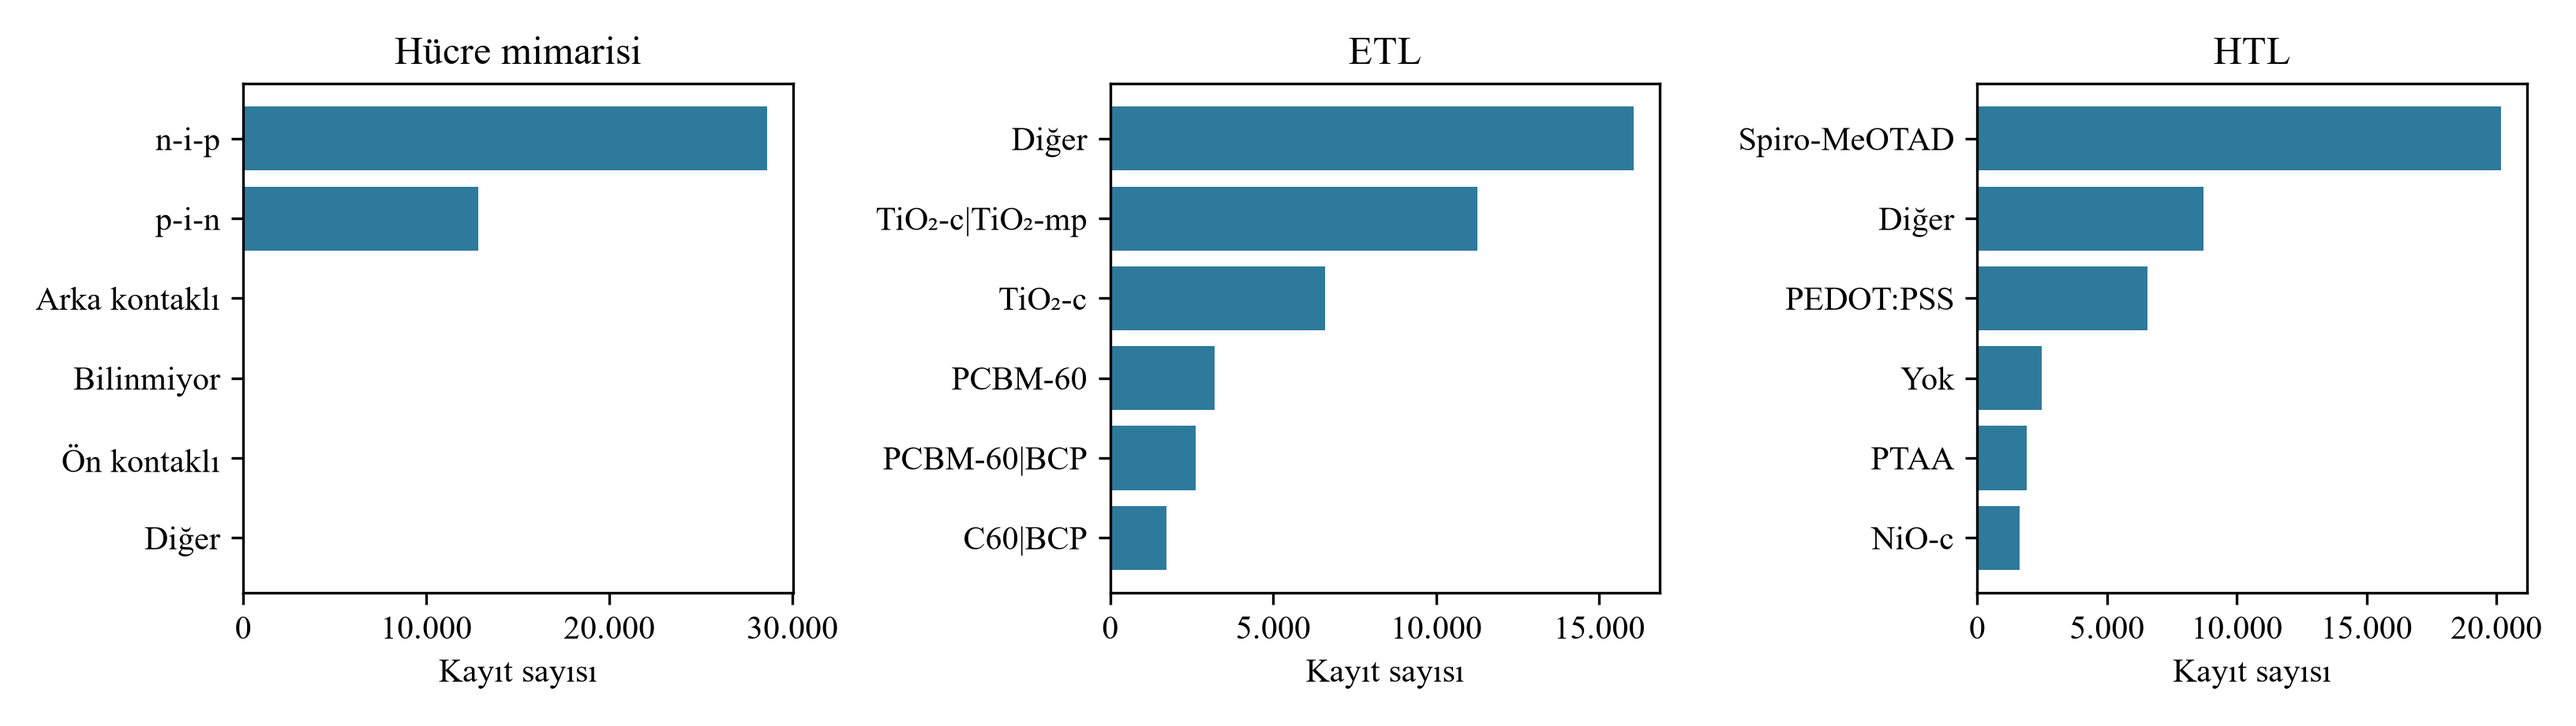
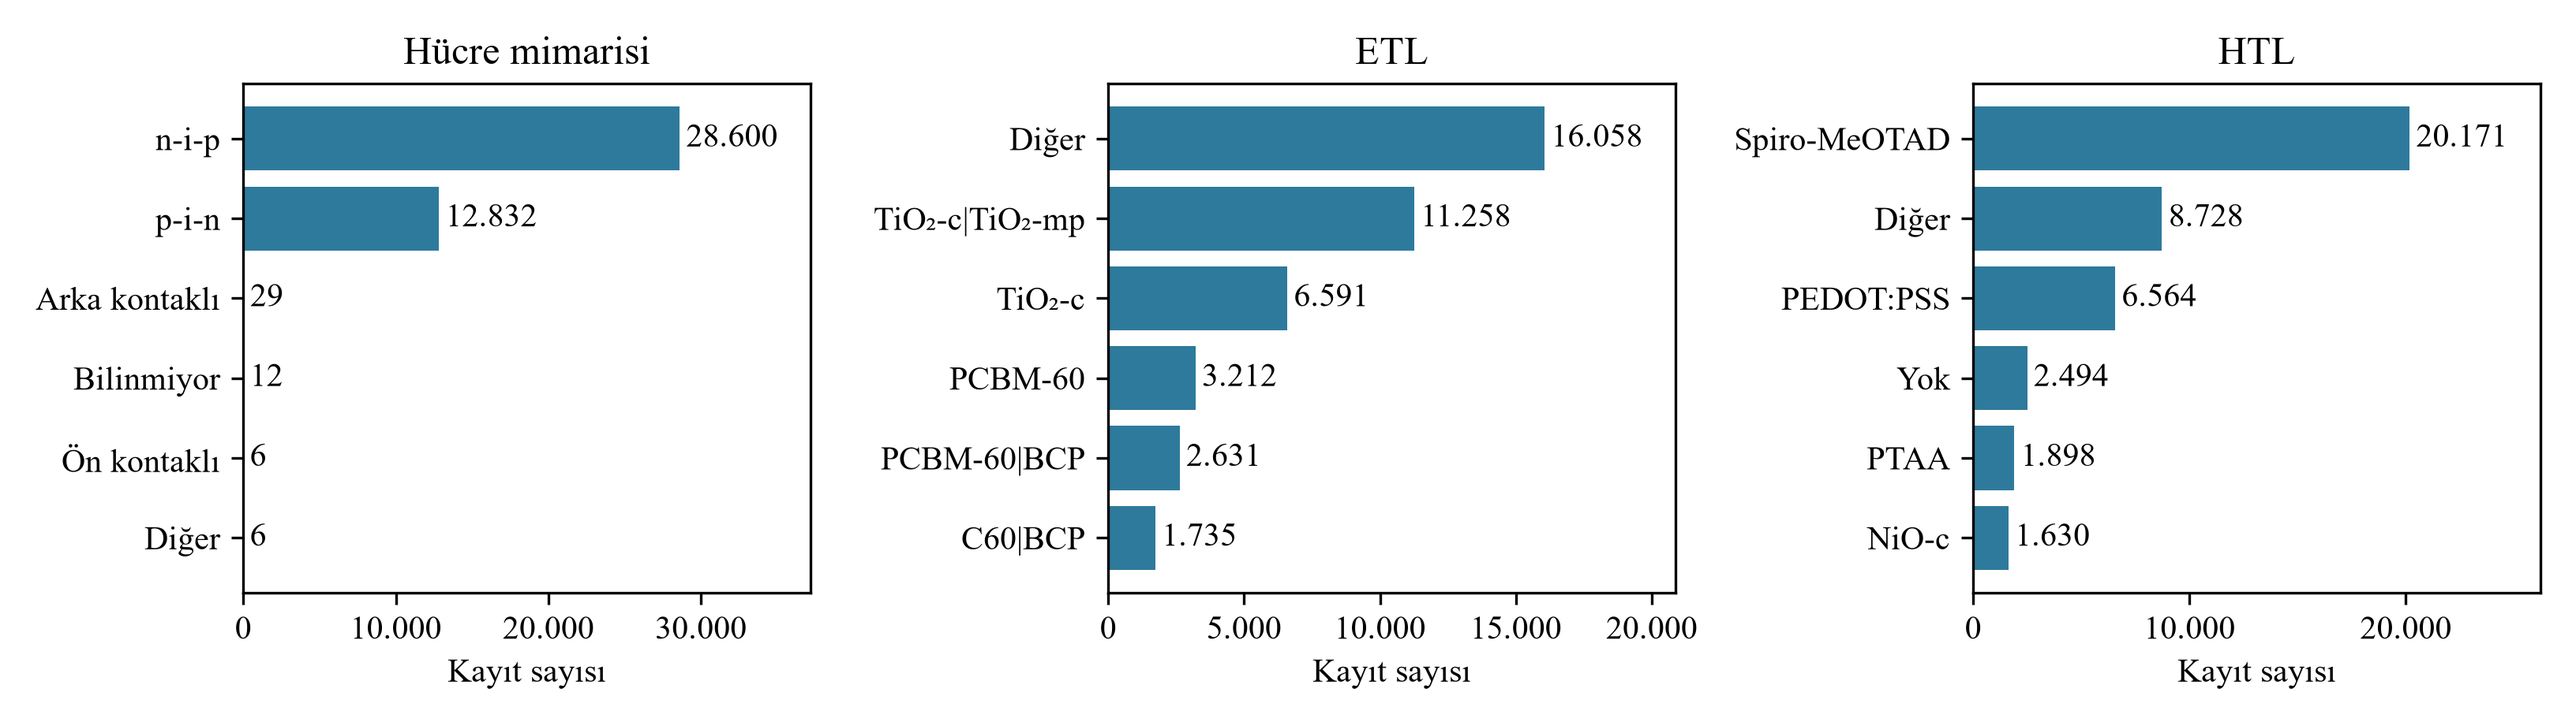
tez v126 sekilleri: 4.13 gosterge ve eksen, 4.1/4.12 eksen etiketi, 4.4 sayi etiketleri, 4.10 thesis_figures icinde, deney A/B/C ozet sekli

diff --git a/scripts/thesis_figures.py b/scripts/thesis_figures.py
@@ -1,9 +1,14 @@
 """Tez sekillerinin repo icinden yeniden uretimi (ML yok, yalnizca gorsellestirme).
 
-Tezdeki 13 sekilden dordu zaten hat betiklerince uretilir (4.8/4.9 SHAP -> scripts/05,
-4.10 kazanc egrisi -> scripts/07, 4.11 sacilim -> scripts/03). Bu betik geri kalan
-VERI sekillerinin esdegerlerini uretir; Sekil 3.1 (mimari semasi) veri sekli degildir.
-Sekil 3.1 ile 4.8/4.9'un tezdeki Turkce surumleri scripts/tez_sekilleri_ek.py'dedir.
+Tezdeki sekillerden ucu hat betiklerince uretilir (4.8/4.9 SHAP -> scripts/05,
+4.11 sacilim -> scripts/03). Bu betik geri kalan VERI sekillerini uretir; Sekil 3.1
+(mimari semasi) veri sekli degildir. Sekil 3.1 ile 4.8/4.9'un tezdeki Turkce surumleri
+scripts/tez_sekilleri_ek.py'dedir.
+Sekil 4.10 (kazanc egrisi) tez v126'dan itibaren bu betikte cizilir. scripts/07'nin
+urettigi outputs/screening/gains_curve.png arsiv ciktisi olarak kalir; tezde kullanilan
+surum buradaki sekil_4_10_kazanc_egrisi.png dosyasidir (egri (0, 0) noktasindan baslar).
+Uc dogrulama deneyinin (A, B, C) ozet sekli de buradadir; tezdeki numarasi belirlenmedigi
+icin dosya adinda numara yoktur.
 Sayilar Turkce gosterimle yazilir (tez v120): ondalik virgul, binlik nokta (_save ->
 _tr_eksenler; metin icindeki sayilar _ondalik / _tr ile).
 
@@ -14,8 +19,10 @@ _tr_eksenler; metin icindeki sayilar _ondalik / _tr ile).
   Sekil 4.5  Yayin (DOI) basina kayit sayisi   <- model_ready
   Sekil 4.6  Medyanla doldurulan oranlar       <- model_ready (*_missing bayraklari)
   Sekil 4.7  Model GroupKFold karsilastirmasi  <- outputs/v4/model_comparison_groupkfold.csv
+  Sekil 4.10 Kazanc egrisi (PCE >= 18)         <- outputs/v4/best_model_holdout_predictions.csv
   Sekil 4.12 Isaretli hata dagilimi            <- outputs/v4/actual_vs_predicted.csv
   Sekil 4.13 Conformal kapsama/genislik        <- outputs/conformal/* + holdout tahminleri
+  Deney A/B/C dogrulama deneyleri ozeti        <- outputs/v4/validation_experiments.csv
 
 data/processed dosyalari yoksa (once scripts/01-02 kosulmali) ilgili sekiller atlanir;
 commit'li outputs/ dosyalarindan uretilenler her ortamda calisir.
@@ -29,6 +36,7 @@ import matplotlib
 matplotlib.use("Agg")
 import matplotlib.pyplot as plt
 from matplotlib import ticker
+from matplotlib.patches import Patch
 
 # Sekil ici yazilar tez kilavuzu geregi Times New Roman (mathtext: STIX serif eslenigi)
 plt.rcParams["font.family"] = "Times New Roman"
@@ -39,6 +47,7 @@ import pandas as pd
 ROOT = Path(__file__).resolve().parents[1]
 sys.path.insert(0, str(ROOT / "src"))
 from perovskite_ml.config import load_config
+from perovskite_ml.simulation.screening import gains_curve
 
 DPI = 300  # tez yerlesimindeki ozgun kanvaslarla birebir
 
@@ -109,6 +118,7 @@ def main():
     outdir.mkdir(parents=True, exist_ok=True)
     made, skipped = [], []
     MAVI, TURUNCU, YESIL = "#2E7A9C", "#D9622B", "#17A589"
+    GRI = "#9AA0A6"
 
     # ---- islenmis veri gerektiren sekiller (4.1-4.6) ----
     mr_path = proc / "model_ready_dataset.csv"
@@ -124,7 +134,7 @@ def main():
                    label=f"Ortalama = {_ondalik(pce.mean(), 2)}")
         ax.axvline(pce.median(), color="black", linestyle=":", linewidth=2.2,
                    label=f"Medyan = {_ondalik(pce.median(), 2)}")
-        ax.set_xlabel("PCE (%)"); ax.set_ylabel("H\u00fccre say\u0131s\u0131")
+        ax.set_xlabel("PCE (%)"); ax.set_ylabel("Kay\u0131t say\u0131s\u0131")
         ax.legend()
         _save(fig, outdir, "sekil_4_01_pce_dagilimi.png", made)
 
@@ -198,13 +208,15 @@ def main():
         skipped += ["4.1", "4.2", "4.3", "4.5", "4.6"]
         print(f"  [atlandi] model_ready_dataset.csv yok ({mr_path}) -> once scripts/01-02")
 
-    # Sekil 4.4 — cihaz-yigini en sik kategoriler (ilk 5 + '<panel> other')
+    # Sekil 4.4 — cihaz-yigini en sik kategoriler (ilk 5 + '<panel> other');
+    # her cubugun ucunda kayit sayisi (kucuk kategorilerin cubugu gorunmedigi icin)
     cl_path = proc / "cleaned_dataset.csv"
     if cl_path.exists():
         C = pd.read_csv(cl_path, low_memory=False)
         panels = [("Cell_architecture", "H\u00fccre mimarisi", "Mimari"),
                   ("ETL_stack_sequence", "ETL", "ETL"),
                   ("HTL_stack_sequence", "HTL", "HTL")]
+        X_PAY_4_4 = 1.30  # sayi etiketi cerceveye degmesin
         fig, axes = plt.subplots(1, 3, figsize=(10.88, 3.07))
         for ax, (col, baslik, kisa) in zip(axes, panels):
             vc = C[col].fillna("Unknown").astype(str).value_counts()
@@ -218,7 +230,12 @@ def main():
                 etiket.append(_kategori_adi(vc.index[5]))
                 deger.append(int(vc.iloc[5]))
             sirali = sorted(zip(deger, etiket))
-            ax.barh([e for _, e in sirali], [v for v, _ in sirali], color=MAVI)
+            bars = ax.barh([e for _, e in sirali], [v for v, _ in sirali], color=MAVI)
+            en_buyuk = max(deger)
+            for b, (v, _) in zip(bars, sirali):
+                ax.text(v + 0.015 * en_buyuk, b.get_y() + b.get_height() / 2,
+                        _tr(int(v)), va="center", ha="left")
+            ax.set_xlim(0, en_buyuk * X_PAY_4_4)
             ax.set_title(baslik)
             ax.set_xlabel("Kay\u0131t say\u0131s\u0131")
         _save(fig, outdir, "sekil_4_04_cihaz_kategorileri.png", made)
@@ -244,6 +261,24 @@ def main():
     else:
         skipped.append("4.7")
 
+    # Sekil 4.10 — kazanc egrisi: model sirasiyla incelenen oran ve yakalanan PCE >= 18 orani
+    hold_path = outputs / "v4" / "best_model_holdout_predictions.csv"
+    if hold_path.exists():
+        G = pd.read_csv(hold_path)
+        oran, yakalanan = gains_curve(G["y_true"].values, G["y_pred"].values, 18)
+        oran = np.concatenate([[0.0], oran])            # egri (0, 0) noktasindan baslar
+        yakalanan = np.concatenate([[0.0], yakalanan])
+        fig, ax = plt.subplots(figsize=(6.5, 5))
+        ax.plot(oran * 100, yakalanan * 100, color=MAVI, linewidth=2,
+                label="Model y\u00f6nlendirmeli se\u00e7im")
+        ax.plot([0, 100], [0, 100], "--", color="gray", label="Rastgele se\u00e7im")
+        ax.set_xlabel("\u0130ncelenen kay\u0131t oran\u0131 (%)")
+        ax.set_ylabel("Yakalanan y\u00fcksek verimli kay\u0131t (PCE \u2265 18) oran\u0131 (%)")
+        ax.legend()
+        _save(fig, outdir, "sekil_4_10_kazanc_egrisi.png", made)
+    else:
+        skipped.append("4.10")
+
     # Sekil 4.12 — isaretli hata dagilimi (tahmin - gercek)
     avp_path = outputs / "v4" / "actual_vs_predicted.csv"
     if avp_path.exists():
@@ -253,14 +288,13 @@ def main():
         ax.hist(err, bins=90, color=YESIL, edgecolor="white", linewidth=0.4)
         ax.axvline(0, color="black", linewidth=1.6)
         ax.set_xlabel("Tahmin hatas\u0131 (tahmin \u2212 ger\u00e7ek, PCE puan\u0131)")
-        ax.set_ylabel("H\u00fccre say\u0131s\u0131")
+        ax.set_ylabel("Kay\u0131t say\u0131s\u0131")
         _save(fig, outdir, "sekil_4_12_hata_dagilimi.png", made)
     else:
         skipped.append("4.12")
 
     # Sekil 4.13 — hedeflenen ve gozlenen kapsama (sol) + 60 orneklik aralik (sag)
     conf_path = outputs / "conformal" / "conformal_summary.csv"
-    hold_path = outputs / "v4" / "best_model_holdout_predictions.csv"
     if conf_path.exists() and hold_path.exists():
         conf = pd.read_csv(conf_path)
         marg = conf[conf["yontem"].str.startswith("Marginal")].copy()
@@ -271,12 +305,15 @@ def main():
         etik = [("%" + str(int(h)) + " (\u00b1" + f"{hw[int(h)]:.2f}" + ")").replace(".", ",")
                 for h in hedef]
         axes[0].bar(xs - 0.2, hedef, width=0.4, label="Hedeflenen", color=MAVI)
-        axes[0].bar(xs + 0.2, 100 * marg["ampirik_kapsama"], width=0.4,
+        gozlenen = 100 * marg["ampirik_kapsama"].to_numpy()
+        axes[0].bar(xs + 0.2, gozlenen, width=0.4,
                     label="G\u00f6zlenen", color=TURUNCU)
+        for x, g in zip(xs, gozlenen):
+            axes[0].text(x + 0.2, g + 1.2, "%" + _ondalik(g, 1), ha="center", va="bottom")
         axes[0].set_xticks(xs); axes[0].set_xticklabels(etik)
-        axes[0].set_ylabel("Kapsama (%)"); axes[0].set_ylim(60, 100)
+        axes[0].set_ylabel("Kapsama (%)"); axes[0].set_ylim(0, 105)
         axes[0].set_title("Hedeflenen ve g\u00f6zlenen kapsama")
-        axes[0].legend()
+        axes[0].legend(loc="upper right", ncol=2, frameon=False)
         hw90 = hw.get(90, list(hw.values())[0])
         H = pd.read_csv(hold_path)
         rng = np.random.default_rng(42)
@@ -291,13 +328,57 @@ def main():
                         zorder=3, label="aral\u0131kta")
         axes[1].scatter(xs2[~icinde], sec["y_true"][~icinde], s=60, marker="x",
                         color=TURUNCU, linewidths=2.5, zorder=3, label="d\u0131\u015f\u0131nda")
-        axes[1].set_xlabel("Holdout \u00f6rnekleri (tahmine g\u00f6re s\u0131ral\u0131, n=60)")
+        axes[1].set_xlabel("Rastgele se\u00e7ilen 60 holdout kayd\u0131 (tahmine g\u00f6re s\u0131ral\u0131)")
         axes[1].set_ylabel("PCE (%)")
         axes[1].set_title("Conformal aral\u0131k ve ger\u00e7ek de\u011ferler")
-        axes[1].legend(loc="upper left")
+        # gosterge hicbir isaretin ustune gelmesin: ust sinir yukari, tek satir, cercevesiz
+        axes[1].set_ylim(top=32)
+        axes[1].legend(loc="upper left", ncol=3, frameon=False)
+        print(f"  [4.13] 60 kayit: {int(icinde.sum())} aralikta, {int((~icinde).sum())} disinda")
         _save(fig, outdir, "sekil_4_13_conformal.png", made)
     else:
         skipped.append("4.13")
+
+    # Uc dogrulama deneyi (A: bolme stratejisi, B: olcum sonrasi girdi, C: ozellik kapsami)
+    den_path = outputs / "v4" / "validation_experiments.csv"
+    if den_path.exists():
+        D = pd.read_csv(den_path).set_index(["deney", "ayar"])
+        # (deney, ayar, eksen etiketi, tezin birincil kurulumu mu)
+        paneller = [
+            ("Deney A: b\u00f6lme stratejisi", [
+                ("A_bolme", "rastgele_KFold", "Rastgele\nKFold", False),
+                ("A_bolme", "DOI_grup_KFold", "DOI-grup\nKFold", True)]),
+            ("Deney B: \u00f6l\u00e7\u00fcm sonras\u0131 girdi", [
+                ("B_olcum_sonrasi", "leakage_safe",
+                 "S\u0131z\u0131nt\u0131-g\u00fcvenli\n(77 \u00f6zellik)", True),
+                ("B_olcum_sonrasi", "leakage_ON (+Voc,Jsc,FF)", "+ Voc, Jsc, FF", False)]),
+            ("Deney C: \u00f6zellik kapsam\u0131", [
+                ("C_kapsam", "kompozisyon (14 ozellik)", "Kompozisyon\n(14)", False),
+                ("C_kapsam", "+cihaz (57 ozellik)", "+ cihaz\n(57)", False),
+                ("C_kapsam", "+surec_tam (77 ozellik)", "+ s\u00fcre\u00e7\n(77)", True)]),
+        ]
+        fig, axes = plt.subplots(1, 3, figsize=(10.366667, 4.2), sharey=True,
+                                 gridspec_kw={"width_ratios": [2, 2, 3]})
+        for ax, (baslik, cubuklar) in zip(axes, paneller):
+            xs3 = np.arange(len(cubuklar))
+            ort = np.array([D.loc[(d, a), "R2_mean"] for d, a, _, _ in cubuklar])
+            ss = np.array([D.loc[(d, a), "R2_std"] for d, a, _, _ in cubuklar])
+            ax.bar(xs3, ort, yerr=ss, width=0.62, capsize=4,
+                   color=[MAVI if birincil else GRI for *_, birincil in cubuklar])
+            for x, m, sd in zip(xs3, ort, ss):
+                ax.text(x, m + sd + 0.015, _ondalik(m, 3), ha="center", va="bottom")
+            ax.set_xticks(xs3)
+            ax.set_xticklabels([e for _, _, e, _ in cubuklar])
+            ax.set_xlim(-0.6, len(cubuklar) - 0.4)
+            ax.set_title(baslik)
+        axes[0].set_ylim(0, 1.08)
+        axes[0].set_ylabel("\u00c7apraz do\u011frulama R\u00b2\n(5 katl\u0131; ortalama \u00b1 ss)")
+        axes[2].legend(handles=[Patch(color=MAVI, label="Tezin birincil kurulumu"),
+                                Patch(color=GRI, label="Kar\u015f\u0131la\u015ft\u0131rma kurulumu")],
+                       loc="upper left", frameon=False)
+        _save(fig, outdir, "sekil_deney_abc_dogrulama.png", made)
+    else:
+        skipped.append("deney A/B/C")
 
     print(f"\n[thesis_figures] uretilen: {len(made)} sekil -> {outdir}")
     if skipped:

diff --git a/README.md b/README.md
@@ -116,7 +116,7 @@ python scripts/22_lab_grup_denetimi.py      # tez v118: baş yazar vekiliyle lab
 python scripts/23_deney_b_carpim.py         # tez v118: Deney B — çarpım özelliği ve cebirsel özdeşliğin kırılma kaynakları (Bölüm 4.3)
 python scripts/thesis_data_analysis.py data/processed/model_ready_dataset.csv --out outputs/robustness/thesis_data_analysis.json
                                             # betimsel istatistik: DOI-grup dağılımı, gürültü tabanı (Tablo 5.1; taban RMSE hem √(SS_w/n) hem dof-düzeltmeli), band gap (ML yok); --out ile JSON
-python scripts/thesis_figures.py            # tez veri şekillerinin (4.1-4.7, 4.12, 4.13) repo içinden yeniden üretimi -> outputs/figures/
+python scripts/thesis_figures.py            # tez veri şekillerinin (4.1-4.7, 4.10, 4.12, 4.13 ve üç doğrulama deneyinin özet şekli) repo içinden yeniden üretimi -> outputs/figures/ (4.10 tez v126'dan itibaren burada; scripts/07'nin gains_curve.png dosyası arşiv çıktısıdır)
 python scripts/tez_sekilleri_ek.py          # tez v119: Şekil 3.1 (hat şeması), 4.8 ve 4.9 (SHAP; özellik adları Tablo 4.6 ile aynı) -> outputs/figures/
 ```
 
